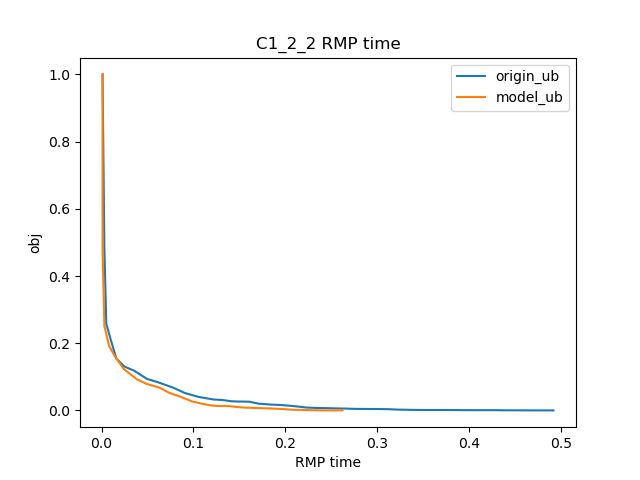
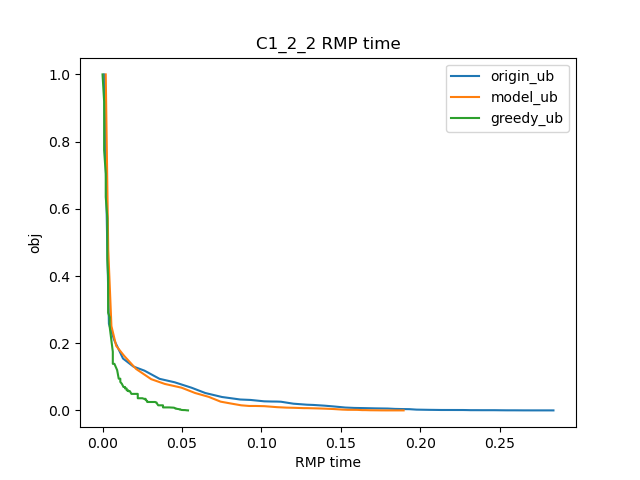
compare_experiment_SL 增加greedy

diff --git a/compare_experiment_SL.py b/compare_experiment_SL.py
@@ -31,11 +31,15 @@ def column_generation(model = None):
         # test: randomly delete a column
         col_num = len(state["columns_state"])
         action = np.ones(col_num)
-        if model is not None:
+        if model == "greedy":
+            action[1:] = 0
+        elif model is not None:
             probs = actor(state, info)
             for i in range(len(action)):
                 if probs[i][0] > 0.5:
                     action[i] = 0
+        if sum(action) == 0: # at least one column
+            action[np.random.randint(0, col_num)] = 1
         state, reward, done, info = env.step(action)
         ub = env.CGAlg.RLMP.ObjVal
         lb = max(env.CGAlg.RLMP.ObjVal + min(vehicleNum * env.CGAlg.SP_obj, 0), 0)
@@ -58,18 +62,23 @@ def column_generation(model = None):
 # run column generation
 origin_ub_lb_list, origin_RLMP_time_list, origin_time_list = column_generation()
 model_ub_lb_list, model_RLMP_time_list, model_time_list = column_generation(actor)
+greedy_ub_lb_list, greedy_RLMP_time_list, greedy_time_list = column_generation("greedy")
 # preprocess
 origin_ub_list = np.array(origin_ub_lb_list)[:,0]
 origin_ub_list = (origin_ub_list - min(origin_ub_list)) / (max(origin_ub_list) - min(origin_ub_list))
 model_ub_list = np.array(model_ub_lb_list)[:,0]
 model_ub_list = (model_ub_list - min(model_ub_list)) / (max(model_ub_list) - min(model_ub_list))
+greedy_ub_list = np.array(greedy_ub_lb_list)[:,0]
+greedy_ub_list = (greedy_ub_list - min(greedy_ub_list)) / (max(greedy_ub_list) - min(greedy_ub_list))
 origin_iter_list = np.arange(len(origin_ub_list))
 model_iter_list = np.arange(len(model_ub_list))
+greedy_iter_list = np.arange(len(greedy_ub_list))
 # plot graphs
 ## 1. RMP time
 plt.figure()
 plt.plot(origin_RLMP_time_list, origin_ub_list, label="origin_ub")
 plt.plot(model_RLMP_time_list, model_ub_list, label="model_ub")
+plt.plot(greedy_RLMP_time_list, greedy_ub_list, label="greedy_ub")
 title = args.instance + " RMP time"
 plt.title(title)
 plt.xlabel("RMP time")
@@ -80,6 +89,7 @@ plt.savefig('outputs/pictures/{}.png'.format(title))
 plt.figure()
 plt.plot(origin_time_list, origin_ub_list, label="origin_ub")
 plt.plot(model_time_list, model_ub_list, label="model_ub")
+plt.plot(greedy_time_list, greedy_ub_list, label="greedy_ub")
 title = args.instance + " total time"
 plt.title(title)
 plt.xlabel("time")
@@ -90,6 +100,7 @@ plt.savefig('outputs/pictures/{}.png'.format(title))
 plt.figure()
 plt.plot(origin_iter_list, origin_ub_list, label="origin_ub")
 plt.plot(model_iter_list, model_ub_list, label="model_ub")
+plt.plot(greedy_iter_list, greedy_ub_list, label="greedy_ub")
 title = args.instance + " iter"
 plt.title(title)
 plt.xlabel("iter")

diff --git a/Env.py b/Env.py
@@ -43,7 +43,7 @@ class CGEnv(gym.Env):
         assert CG_flag == -1, "ERROR: Column Generation finished in 0 step"
         # get state from alg
         state = self.CGAlg.get_column_selection_info()
-        # self.standardize_state(state) # state standardization
+        self.standardize_state(state) # state standardization
         self.obj_init = self.CGAlg.RLMP_obj
         info = {}
         self.iter_cnt = 0
@@ -67,7 +67,7 @@ class CGEnv(gym.Env):
         obj_after = self.CGAlg.RLMP_obj
         """ get state, reward, done, info """
         state = self.CGAlg.get_column_selection_info()
-        # self.standardize_state(state) # state standardization
+        self.standardize_state(state) # state standardization
         info = {}
         # reward = self.alpha * (obj_before - obj_after) / self.obj_init - self.step_cost
         reward = self.alpha * (obj_before - obj_after) / self.obj_init - self.step_cost * (sum(action) / len(action) + 1)

diff --git a/run.py b/run.py
@@ -26,7 +26,7 @@ class Args:
         self.standard_file = "pretrain\dataset_processed\mini_batches_standard_60.json" # for state standardization
         self.map_change_eps = 2 # 地图更新周期, only for random / sequence
         self.limit_node_num = None # 限制算例点的个数
-        self.max_step = 100 # CG最大迭代次数
+        self.max_step = 200 # CG最大迭代次数
         self.device = torch.device("cuda" if torch.cuda.is_available() else "cpu")  # 检测GPU
         self.seed = 2 # 随机种子，置0则不设置随机种子
         self.process_num = mp.cpu_count() // 2 if not self.debug else 1 # 每次训练的进程数
